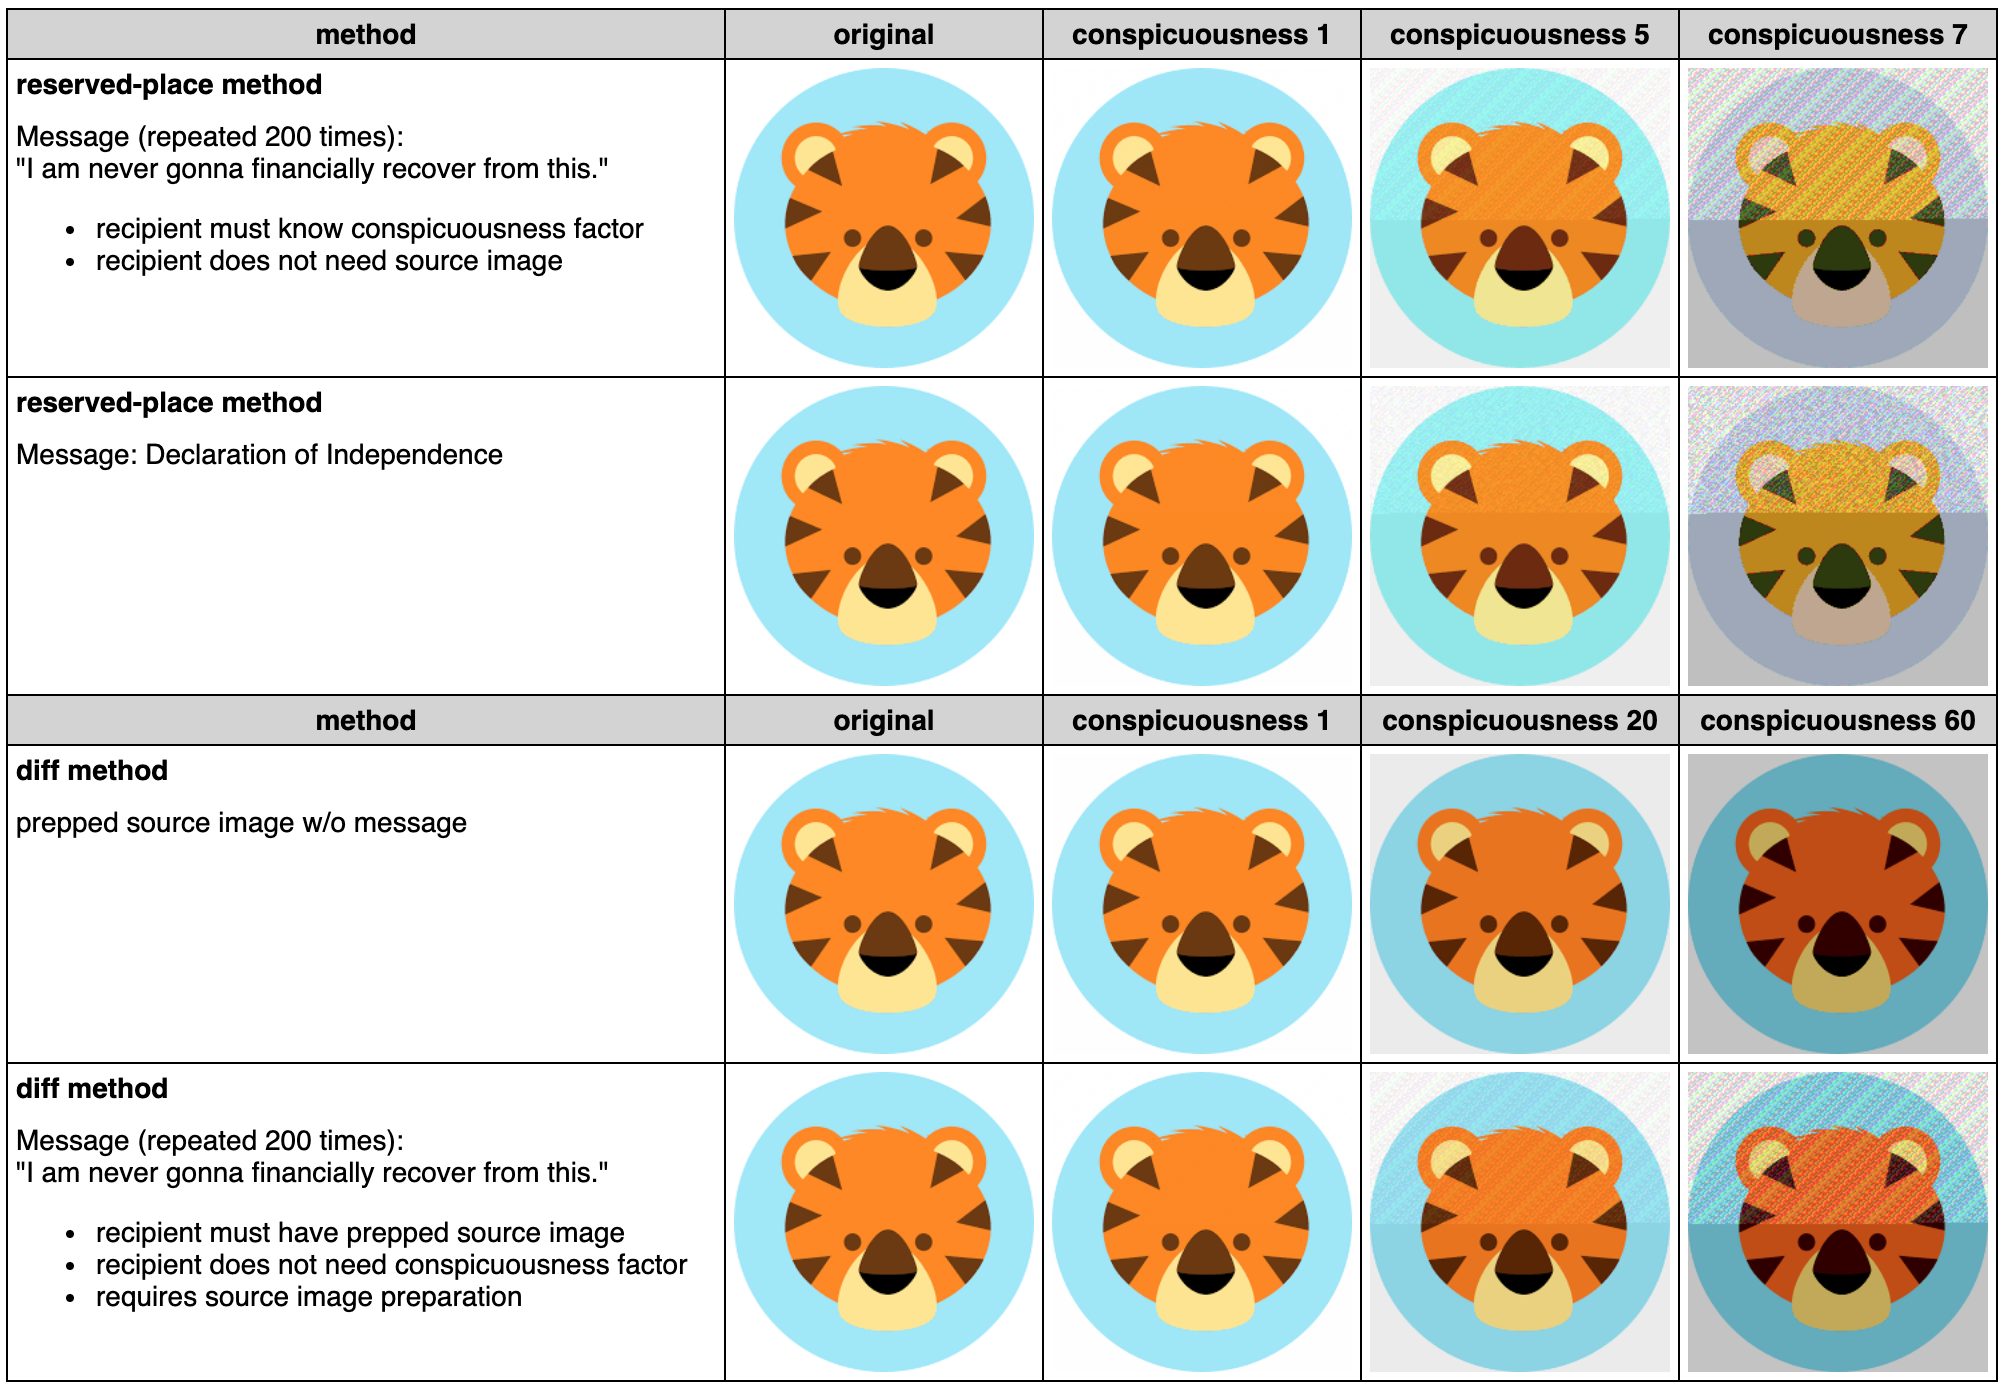
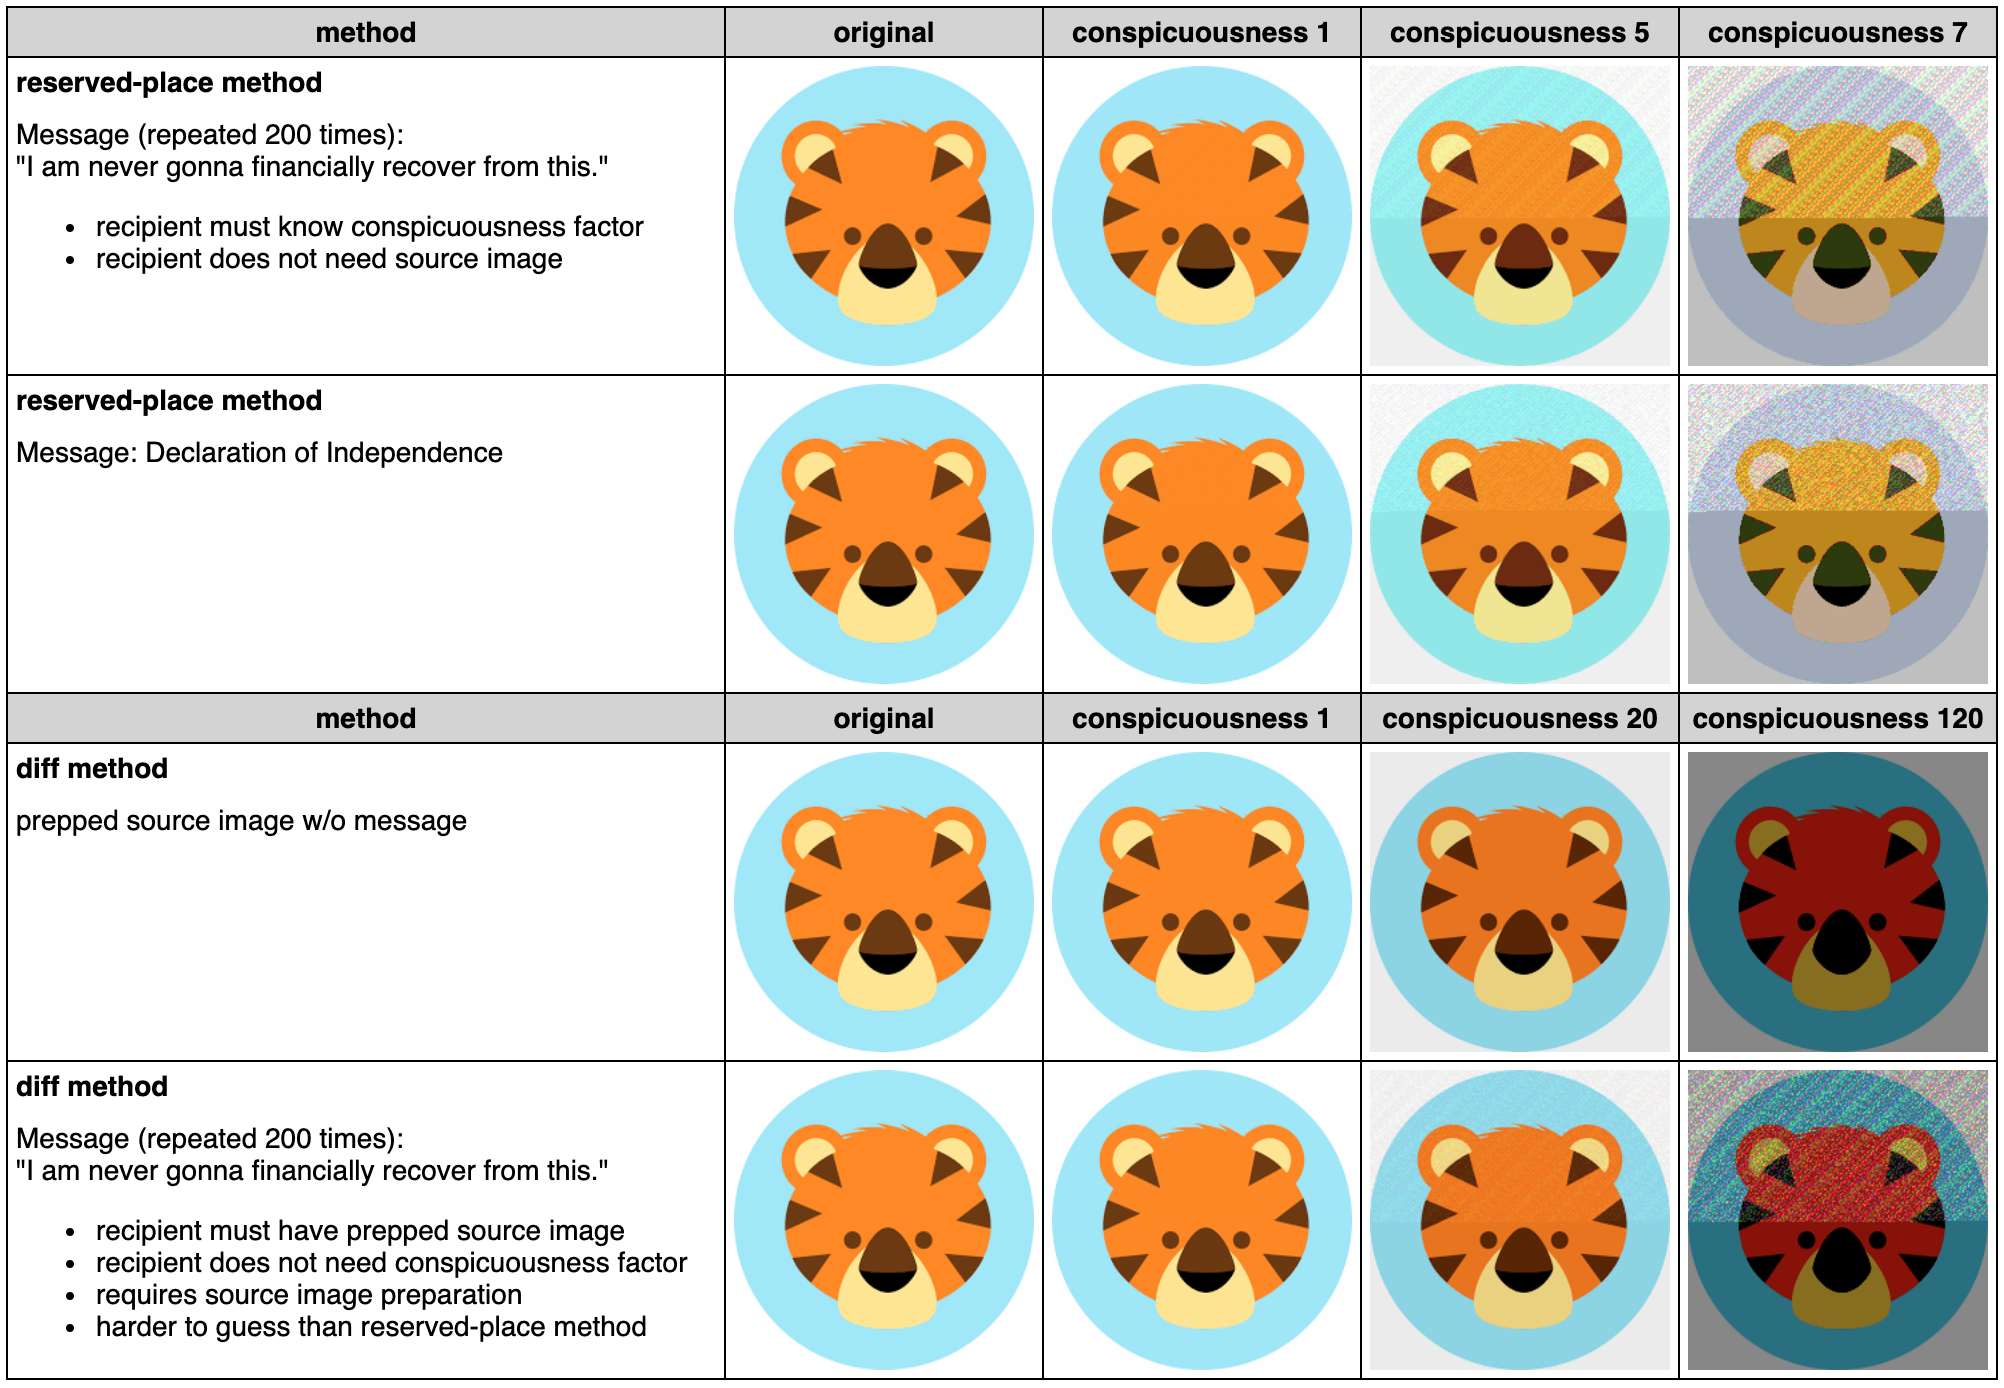
initial commit

diff --git a/steganos-core/src/main/java/us/marseilles/steganos/core/encoder/DiffEncoderImpl.java b/steganos-core/src/main/java/us/marseilles/steganos/core/encoder/DiffEncoderImpl.java
@@ -2,6 +2,7 @@ package us.marseilles.steganos.core.encoder;
 
 import java.awt.image.BufferedImage;
 import java.util.BitSet;
+import java.util.Random;
 import java.util.function.Function;
 
 import us.marseilles.steganos.core.util.Utils;
@@ -12,15 +13,16 @@ public class DiffEncoderImpl implements DiffEncoder
 
     /**
      * The source image should already have the value of conspicuousness shaved off from this color channel (see
-     * {@link #prepSourceImage(BufferedImage, int)}. Add the bit to this, multiplied by the conspicuousness factor
-     * (for demo effect, when factor > 1).
+     * {@link #prepSourceImage(BufferedImage, int)}. Add the bit to this, multiplied by a random value up to the
+     * conspicuousness factor. Increasing conspicuousness value makes the effect visually more prominent, but also
+     * increases the difficulty of figuring out the message w/o source image.
      */
     @Override
     public int encodeNextValue(BitSet bitSet, int bitIndex, int sourceRGB, Function<Integer, Integer> channelFunc,
         int conspicuousness)
     {
         boolean moreBits = bitIndex < bitSet.length();
-        return channelFunc.apply(sourceRGB) + (moreBits && bitSet.get(bitIndex) ? 1 : 0) * conspicuousness;
+        return channelFunc.apply(sourceRGB) + (moreBits && bitSet.get(bitIndex) ? getRandom(conspicuousness) : 0);
     }
 
     @Override
@@ -61,5 +63,10 @@ public class DiffEncoderImpl implements DiffEncoder
         }
 
         return preppedImage;
+    }
+
+    private int getRandom(int ceiling)
+    {
+        return new Random().nextInt(ceiling) + 1;
     }
 }

diff --git a/steganos-core/src/main/java/us/marseilles/steganos/core/encoder/DiffEncoder.java b/steganos-core/src/main/java/us/marseilles/steganos/core/encoder/DiffEncoder.java
@@ -9,8 +9,15 @@ import java.awt.image.BufferedImage;
  * hitting the possible color channel floor). Max conspicuousness for this encoder type is 255. At 255, the entire image
  * is stripped away.
  *
- * This method requires the source image when decoding, instead of the conspicuousness factor. This makes guessing the
- * message by examining the image bits much more difficult.
+ * The default conspicuousness of 1 allows messages to be decoded by anyone, in the same way that reserved-place can be
+ * decoded. If you know where the bits are stored, you can just read them out. However, using a higher conspicuousness
+ * with the diff method (ironically) actually leads to more obfuscation. Each bit will be multiplied by a random value
+ * up to the conspicuousness factor before being added to the image, so no one bit can read to decode the message.
+ * Decoding an intercepted image is only possible if you can first correctly interpret the conspicuousness factor, by
+ * examining the color channel value "ceiling"—i.e., the max brightness value of the prepped image. This effect could be
+ * overdone, weakening the obfuscation. For example, a conspicuousness of 128 allows for message bits to have one of 128
+ * values. However, if an interceptor can figure out what true-white was supposed to be in the image, then they have
+ * guessed your ceiling (127). A value less than 10 is probably ideal; your mileage may very, depending on source image.
  */
 public interface DiffEncoder extends Encoder
 {

diff --git a/steganos-cmd-line/src/main/java/us/marseilles/steganos/cmd/CommandLineEncoder.java b/steganos-cmd-line/src/main/java/us/marseilles/steganos/cmd/CommandLineEncoder.java
@@ -20,7 +20,7 @@ import us.marseilles.steganos.core.decoder.ReservedPlaceDecoder;
 import us.marseilles.steganos.core.encoder.ReservedPlaceEncoderImpl;
 
 /**
- * Example usage of steganos text-to-image encoder
+ * Command line tool for example usage of steganos text-to-image encoder
  */
 public class CommandLineEncoder
 {
@@ -188,11 +188,11 @@ public class CommandLineEncoder
 
     private enum Mode
     {
-        RESERVED_PLACE_ENCODE(3, 4, "reserved_place_encode source.file \"a message\" [2]"),
-        RESERVED_PLACE_DECODE(2, 3, "reserved_place_decode encoded.file [2]"),
-        DIFF_ENCODE(3, 4, "diff_encode source.file \"a message\" [2]"),
-        DIFF_DECODE(3, 3, "diff_decode source.file encoded.file"),
-        DIFF_IMG_PREP(2, 3, "diff_img_prep source.file [2]");
+        RESERVED_PLACE_ENCODE(3, 4, "reserved_place_encode source.png \"a message\" [2]"),
+        RESERVED_PLACE_DECODE(2, 3, "reserved_place_decode encoded.png [2]"),
+        DIFF_ENCODE(3, 4, "diff_encode source.png \"a message\" [2]"),
+        DIFF_DECODE(3, 3, "diff_decode source.png encoded.png"),
+        DIFF_IMG_PREP(2, 3, "diff_img_prep source.png [2]");
 
         private int minArgs;
         private int maxArgs;

diff --git a/steganos-core/src/main/java/us/marseilles/steganos/core/encoder/ReservedPlaceEncoder.java b/steganos-core/src/main/java/us/marseilles/steganos/core/encoder/ReservedPlaceEncoder.java
@@ -1,10 +1,11 @@
 package us.marseilles.steganos.core.encoder;
 
 /**
- * Encodes a message into an image by reserving the bit at the base-2 place specified by the conspicuousness factor. The
- * conspicuousness factor's effect on the image scales up quickly. Max conspicuousness for this encoder type is 8.
+ * Encodes a message into an image by reserving in each color channel byte the bit at the base-2 place specified by the
+ * conspicuousness factor. The conspicuousness factor's effect on the image scales up quickly. Max conspicuousness for
+ * this encoder type is 8.
  *
- * This method can be decoding with only the conspicuousness factor, instead of requiring the source image. This makes
+ * This method can be decoded with only the conspicuousness factor, instead of requiring the source image. This makes
  * guessing the message by examining the image bits easier than methods requiring the source image to decode.
  */
 public interface ReservedPlaceEncoder extends Encoder

diff --git a/steganos-core/src/main/java/us/marseilles/steganos/core/encoder/ReservedPlaceEncoderImpl.java b/steganos-core/src/main/java/us/marseilles/steganos/core/encoder/ReservedPlaceEncoderImpl.java
@@ -1,6 +1,5 @@
 package us.marseilles.steganos.core.encoder;
 
-import java.awt.image.BufferedImage;
 import java.util.BitSet;
 import java.util.function.Function;
 

diff --git a/README.md b/README.md
@@ -1,14 +1,20 @@
 # steganos
 
 ## About
-steganos provides tools for simple text-in-image [steganography](https://en.wikipedia.org/wiki/Steganography).
+steganos provides tools for simple text-in-image [steganography](https://en.wikipedia.org/wiki/Steganography) by subtly encoding the bits of a message into the color channels of an image. This is useful for watermarking or passing messages in plain sight.
+
+Two encoding methods are provided
+- **reserved-place**: one of the places in each color channel byte is reserved for message encoding (the least significant digit, by default); decoding only requires knowing which bit was reserved
+- **diff**: a portion of each color channel is pre-carved out for message encoding; decoding is achieved by diffing the source image and the encoded image
 
 steganos does not provide encryption—simply encrypt text before passing to steganos.
 
-PNGs are strongly recommended for source files and JPEGs are discouraged. Even at its highest setting, the Java
-JPEG ImageWriter cannot write losslessly, which corrupts the encoded message.
+PNGs are strongly recommended for source files and JPEGs are discouraged. Even at its highest setting, the Java JPEG ImageWriter cannot write losslessly, which corrupts the encoded message. steganos is also not currently handling transparency.
 
-Thanks to https://www.dyclassroom.com/image-processing-project/how-to-get-and-set-pixel-value-in-java for a lesson in java image libraries.
+Thanks to https://www.dyclassroom.com/image-processing-project/how-to-get-and-set-pixel-value-in-java for a lesson in java imaging libraries.
+
+### Disclaimer
+steganos is a hobby project and no warranty of any kind is provided.
 
 ## Build
 `mvn clean package`

diff --git a/steganos-core/README.md b/steganos-core/README.md
@@ -1,17 +1,13 @@
-# steganos
+# steganos-core
 
 ## About
-steganos provides tools for simple text-in-image [steganography](https://en.wikipedia.org/wiki/Steganography).
+Core library for steganographic encoding/decoding, along with some i/o convenience classes
 
-steganos does not provide encryption—simply encrypt text before passing to steganos.
-
-PNGs are strongly recommended for source files and JPEGs are discouraged. Even at its highest setting, the Java
-JPEG ImageWriter cannot write losslessly, which corrupts the encoded message.
-
-Thanks to https://www.dyclassroom.com/image-processing-project/how-to-get-and-set-pixel-value-in-java for a lesson in java image libraries.
+Conspicuousness factor available to make the effect more prominent for demoing. Using a factor of 1, or provided delegator methods that don't accept a conspicuousness factor, keeps the effect below human visual detection.  
 
 ## Build
 `mvn clean package`
 
-## Examples
-![steganos output examples](examples.png?raw=true)
+## TODO
+- Add alpha channel support
+- +/- diff method without image prepping
